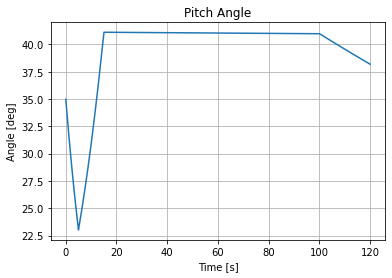
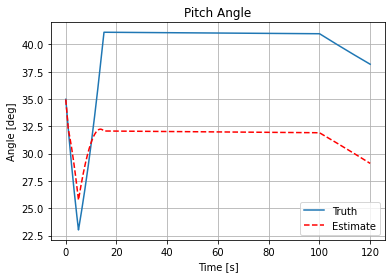
added sim gyroscope

diff --git a/Sims/Python/IMU_Sim_9_3_2022/attitudeSim.py b/Sims/Python/IMU_Sim_9_3_2022/attitudeSim.py
@@ -1,6 +1,8 @@
 import numpy as np
 import matplotlib.pyplot as plt
-from mathUtilities import deg2rad, EulerKinematic, rad2deg, Inertial2Body
+import random
+from mathUtilities import deg2rad, EulerKinematic, rad2deg, Inertial2Body, Body2Inertial, \
+IMU_AttitudeUpdate
 
 # Initial Orientation
 roll  = deg2rad(10) # [deg]
@@ -30,6 +32,7 @@ r_array  = np.zeros(arrayLength)
 time     = np.zeros(arrayLength)
 
 g_vector = np.zeros((arrayLength,3))
+dcm_int = np.zeros((arrayLength,3))
 
 angles = np.array([[roll],
                    [pitch],
@@ -46,7 +49,7 @@ accel2G = lambda a : a/9.81
  
 for idx in range (0,arrayLength):
     
-    # Simulating Gyroscope (no noise, bias, drift, etc...)
+    # Simulating Rotating Body
     if t <= 5.0:
         
         # Not rolling
@@ -118,32 +121,65 @@ for idx in range (0,arrayLength):
     psiDot[idx]   = rad2deg(AttitudeRates[2].item())
     time[idx]     = t
     
+    # Using Euler angles for calculations
+    roll  = angles[0].item()
+    pitch = angles[1].item()
+    yaw   = angles[2].item()
+    
+    # Making sure to have the right values for the IMU based attitude
+    # in the beginning
+    if t < 1.0:
+        rollEst  = roll
+        pitchEst = pitch
+        yawEst   = yaw
+    
     # Simulating accelerometer (no external acceleration, noise, etc...)
     # Storing gravity components in the body frame
-    g_vector[idx, :] = np.transpose((Inertial2Body(phi[idx], theta[idx], psi[idx])@gravity))
+    g_vector[idx, :] = np.transpose((Inertial2Body(roll, pitch, yaw)@gravity))
+    
+    # Simulating gyroscope with noise and doing attitude update
+    the_dcm    = Body2Inertial(rollEst, pitchEst, yawEst)
+    noise      = 0.002*random.random()
+    bias       = 0.0001
+    #Gyro      = BodyRates + noise + bias 
+    Gyro       = BodyRates
+    IMU_angles = IMU_AttitudeUpdate(the_dcm, Gyro, dt)
+    
+    # Storing data
+    dcm_int[idx, :] = np.transpose(IMU_angles)
+    
+    rollEst  = deg2rad(IMU_angles[0].item())
+    pitchEst = deg2rad(IMU_angles[1].item())
+    yawEst   = deg2rad(IMU_angles[2].item())
 
 # Plotting values
 plt.figure(1)
-plt.plot(time, phi)
+plt.plot(time, phi, label = 'Truth')
+plt.plot(time, dcm_int[:,0], '--r', label = 'Estimate')
 plt.ylabel('Angle [deg]')
 plt.xlabel('Time [s]')
 plt.title('Roll Angle')
+plt.legend()
 plt.grid()
 plt.show()
 
 plt.figure(2)
-plt.plot(time, theta)
+plt.plot(time, theta, label = 'Truth')
+plt.plot(time, dcm_int[:,1], '--r', label = 'Estimate')
 plt.ylabel('Angle [deg]')
 plt.xlabel('Time [s]')
 plt.title('Pitch Angle')
+plt.legend()
 plt.grid()
 plt.show()
 
 plt.figure(3)
-plt.plot(time, psi)
+plt.plot(time, psi, label = 'Truth')
+plt.plot(time, dcm_int[:,2], '--r', label = 'Estimate')
 plt.ylabel('Angle [deg]')
 plt.xlabel('Time [s]')
 plt.title('Yaw Angle')
+plt.legend()
 plt.grid()
 plt.show()
 

diff --git a/Sims/Python/IMU_Sim_9_3_2022/mathUtilities.py b/Sims/Python/IMU_Sim_9_3_2022/mathUtilities.py
@@ -1,5 +1,6 @@
 import numpy as np
 import math
+from numpy.linalg import matrix_power
 
 def deg2rad(angle):
     return angle * (np.pi/180.0)
@@ -48,18 +49,47 @@ def extractEuler(R):
 
 def EulerKinematic(angles, BodyRate):
     
-        roll  = angles[0].item()
-        pitch = angles[1].item()
-        
-        # pitch == 90 -> Gimbal Lock
-        # 1/cos(90) = undefined
-        
-        R = np.array([[1, np.sin(roll)*np.tan(pitch), np.cos(roll)*np.tan(pitch)], 
-                      [0, np.cos(pitch), -np.sin(pitch)],
-                      [0, np.sin(roll)/np.cos(pitch), np.cos(roll)/np.cos(pitch)]])
-        
-        # Body Rates [p,q,r].' from the gyroscope
-        # The @ means 'matrix multiply'
-        return R@BodyRate
+    roll  = angles[0].item()
+    pitch = angles[1].item()
+    
+    # cos(pitch) == 90 -> Gimbal Lock
+    # 1/cos(90) = undefined
+    
+    R = np.array([[1, np.sin(roll)*np.tan(pitch), np.cos(roll)*np.tan(pitch)], 
+                  [0, np.cos(pitch), -np.sin(pitch)],
+                  [0, np.sin(roll)/np.cos(pitch), np.cos(roll)/np.cos(pitch)]])
+    
+    # Body Rates [p,q,r].' from the gyroscope
+    # The @ means 'matrix multiply'
+    return R@BodyRate
 
 
+def IMU_AttitudeUpdate(dcmOLD, Gyro, dt):
+    
+    # Skew-symmetric matrix of the angular rate vector
+    wx = Gyro[0].item()
+    wy = Gyro[1].item()
+    wz = Gyro[2].item()
+    
+    OMEGA = np.array([[0, -wz,  wy], 
+                      [wz, 0,  -wx],
+                      [-wy, wx ,0]])
+    
+    # Identity Matrix    
+    I = np.identity(3)
+        
+    incr = I + OMEGA*dt + (matrix_power(OMEGA*dt, 2)*(1/np.math.factorial(2)))
+    
+    # Remember dcmOLD & dcmNEW are in the body frame (gyro measures body rates)
+    # May need to do : Body2Inertial(roll, pitch, yaw) first 
+    
+    dcmNEW = dcmOLD@incr
+    
+    # Extracting Euler angles from Body2Inertial(roll, pitch, yaw)
+    phi   = math.atan2(dcmNEW[2,1],dcmNEW[2,2])
+    theta = math.asin(-dcmNEW[2,0])
+    psi   = math.atan2(dcmNEW[1,0],dcmNEW[0,0])
+    
+    return rad2deg(np.array([[phi],
+                             [theta],
+                             [psi]]))
